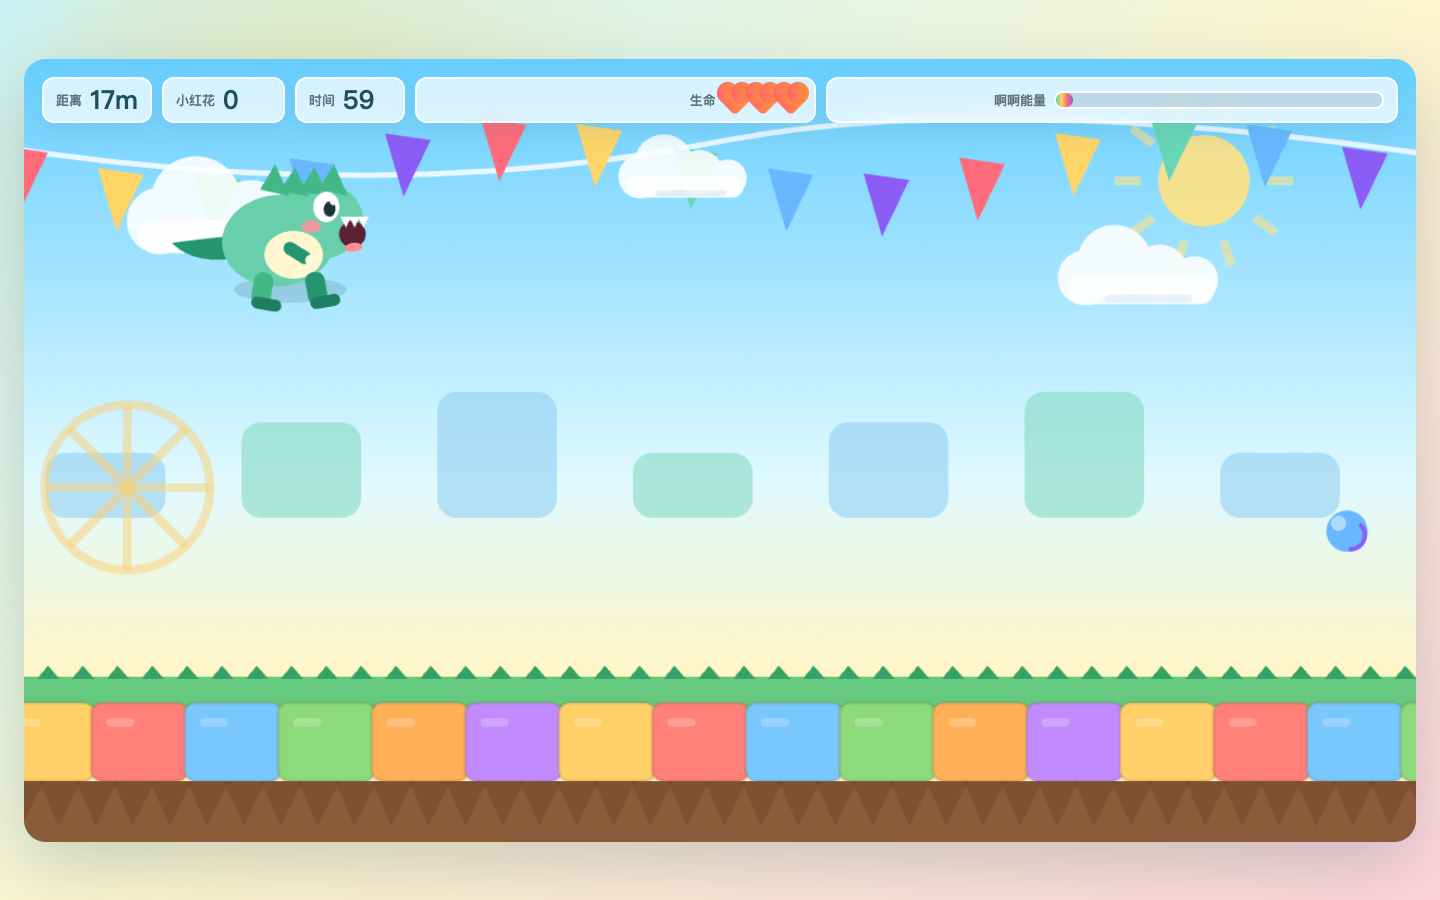
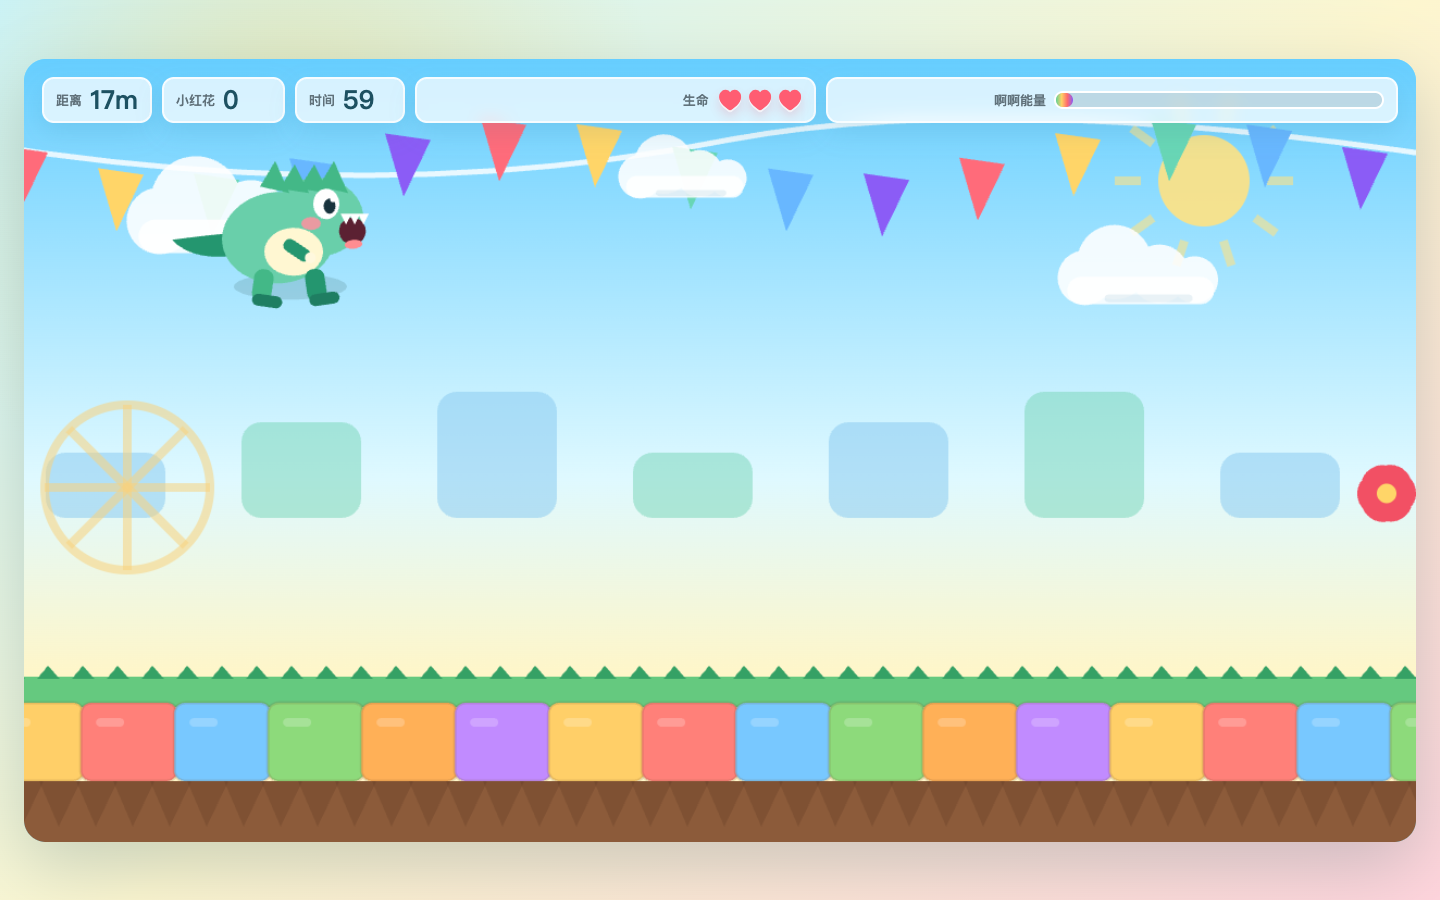
Fix life heart display

diff --git a/styles.css b/styles.css
@@ -131,43 +131,32 @@ button {
 .life-hearts {
   display: flex;
   align-items: center;
-  gap: 6px;
+  gap: 5px;
 }
 
 .life-hearts i {
-  width: 22px;
-  height: 22px;
-  display: block;
-  position: relative;
-  transform: rotate(-45deg);
-  border-radius: 5px 5px 3px 5px;
-  background: linear-gradient(135deg, #ff5d72, #ff9f2e);
-  box-shadow: inset 0 2px 0 rgba(255, 255, 255, 0.35);
-}
-
-.life-hearts i::before,
-.life-hearts i::after {
-  content: "";
-  position: absolute;
-  width: 22px;
-  height: 22px;
-  border-radius: 50%;
-  background: inherit;
+  width: 25px;
+  height: 25px;
+  display: grid;
+  place-items: center;
+  color: #ff5d72;
+  font-family: ui-rounded, "PingFang SC", system-ui, sans-serif;
+  font-size: 26px;
+  font-style: normal;
+  font-weight: 950;
+  line-height: 1;
+  text-shadow:
+    0 2px 0 rgba(255, 255, 255, 0.65),
+    0 6px 12px rgba(242, 79, 100, 0.22);
 }
 
 .life-hearts i::before {
-  top: -10px;
-  left: 0;
-}
-
-.life-hearts i::after {
-  top: 0;
-  left: 10px;
+  content: "♥";
 }
 
 .life-hearts i.is-empty {
-  background: rgba(80, 110, 120, 0.2);
-  box-shadow: inset 0 0 0 2px rgba(255, 255, 255, 0.72);
+  color: rgba(80, 110, 120, 0.26);
+  text-shadow: 0 2px 0 rgba(255, 255, 255, 0.72);
 }
 
 .meter,
@@ -491,23 +480,9 @@ h2 {
   }
 
   .life-hearts i {
-    width: 16px;
-    height: 16px;
-    border-radius: 4px 4px 2px 4px;
-  }
-
-  .life-hearts i::before,
-  .life-hearts i::after {
-    width: 16px;
-    height: 16px;
-  }
-
-  .life-hearts i::before {
-    top: -7px;
-  }
-
-  .life-hearts i::after {
-    left: 7px;
+    width: 18px;
+    height: 18px;
+    font-size: 19px;
   }
 
   .meter {